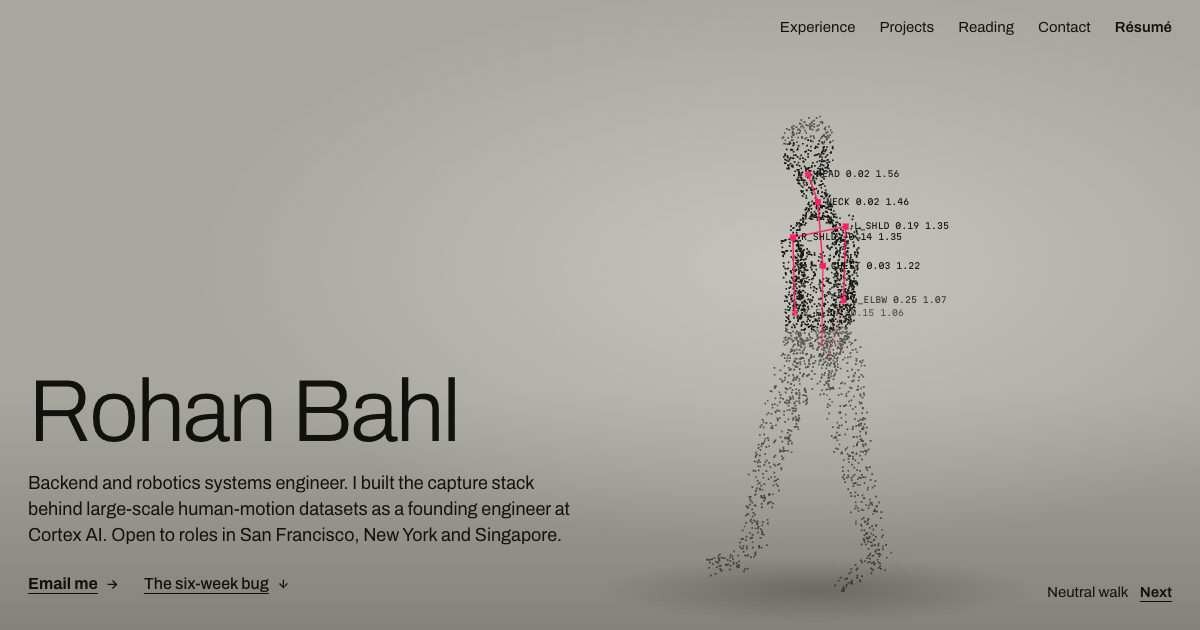
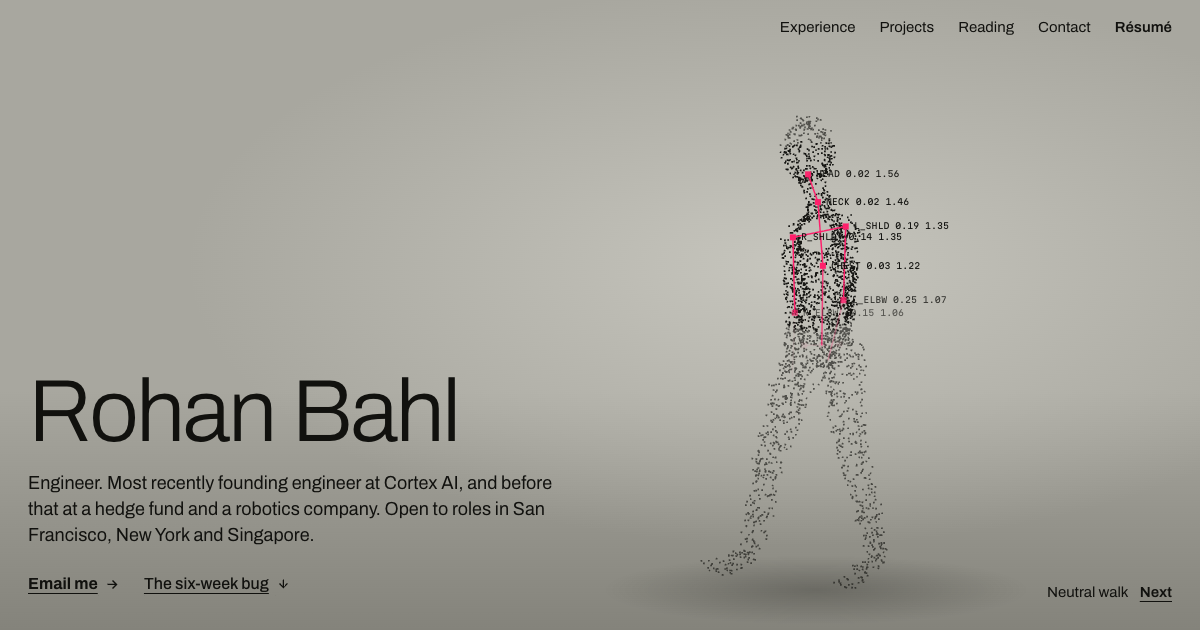
Present as Engineer rather than a specialist
Drops the backend and robotics labels from the hero, contact copy, page title,
search description, structured data and share card.

Changed region(s): [[0.5858, 0.181, 0.74, 0.9349], [0.0308, 0.754, 0.4933, 0.8746]]

diff --git a/index.html b/index.html
@@ -25,18 +25,18 @@
     <link rel="icon" type="image/png" href="%BASE_URL%site_icon.png" />
     <link rel="apple-touch-icon" href="%BASE_URL%site_icon.png" />
 
-    <title>Rohan Bahl — Backend & Robotics Systems Engineer</title>
+    <title>Rohan Bahl — Engineer</title>
     <meta
       name="description"
-      content="Rohan Bahl builds robotics capture systems, data platforms and operator tools. Formerly a founding engineer at Cortex AI. Open to roles in San Francisco, New York and Singapore."
+      content="Rohan Bahl is an engineer. Most recently a founding engineer at Cortex AI, and before that at a hedge fund and a robotics company. Open to roles in San Francisco, New York and Singapore."
     />
 
     <meta property="og:type" content="website" />
     <meta property="og:url" content="https://bnahor.github.io/" />
-    <meta property="og:title" content="Rohan Bahl — Backend & Robotics Systems Engineer" />
+    <meta property="og:title" content="Rohan Bahl — Engineer" />
     <meta
       property="og:description"
-      content="Robotics capture systems, data platforms and operator tools by Rohan Bahl."
+      content="Most recently a founding engineer at Cortex AI, and before that at a hedge fund and a robotics company. Open to roles in San Francisco, New York and Singapore."
     />
     <meta property="og:image" content="https://bnahor.github.io/og-card.png" />
     <meta property="og:image:width" content="1200" />
@@ -51,12 +51,12 @@
         "@context": "https://schema.org",
         "@type": "Person",
         "name": "Rohan Bahl",
-        "jobTitle": "Software Engineer",
+        "jobTitle": "Engineer",
         "alumniOf": {
           "@type": "Organization",
           "name": "Cortex AI"
         },
-        "description": "Engineer building dependable robotics capture systems, data platforms, and operator-facing tools.",
+        "description": "Engineer. Most recently a founding engineer at Cortex AI.",
         "url": "https://bnahor.github.io/",
         "email": "mailto:bnahor.dev@gmail.com",
         "sameAs": [
@@ -64,14 +64,6 @@
           "https://www.linkedin.com/in/rohan-bahl",
           "https://x.com/rb_9823",
           "https://www.instagram.com/ubcebicib"
-        ],
-        "knowsAbout": [
-          "Robotics",
-          "Data Capture",
-          "Distributed Systems",
-          "Reliability Engineering",
-          "Backend Engineering",
-          "Operator Tooling"
         ]
       }
     </script>
@@ -80,7 +72,7 @@
     <div id="root">
       <main class="boot-fallback">
         <h1>Rohan Bahl</h1>
-        <p>Backend and robotics systems engineer. Open to roles in San Francisco, New York and Singapore.</p>
+        <p>Engineer. Open to roles in San Francisco, New York and Singapore.</p>
         <a href="mailto:bnahor.dev@gmail.com">bnahor.dev@gmail.com</a>
       </main>
     </div>

diff --git a/src/data/profile.ts b/src/data/profile.ts
@@ -1,5 +1,5 @@
 /** Default document title; routed pages restore it when they unmount. */
-export const SITE_TITLE = 'Rohan Bahl — Backend & Robotics Systems Engineer';
+export const SITE_TITLE = 'Rohan Bahl — Engineer';
 
 const publicAsset = (fileName: string) => `${import.meta.env.BASE_URL}${fileName}`;
 
@@ -9,7 +9,7 @@ export const profile = {
   previously: 'Founding Engineer · Cortex AI',
   location: 'Singapore',
   logline:
-    'Backend and robotics systems engineer. I built the capture stack behind large-scale human-motion datasets as a founding engineer at Cortex AI. Open to roles in San Francisco, New York and Singapore.',
+    'Engineer. Most recently founding engineer at Cortex AI, and before that at a hedge fund and a robotics company. Open to roles in San Francisco, New York and Singapore.',
   email: 'bnahor.dev@gmail.com',
   links: {
     github: 'https://github.com/bnahor',

diff --git a/src/components/ContactTile.tsx b/src/components/ContactTile.tsx
@@ -19,8 +19,8 @@ export function ContactTile() {
     <section id="contact" className="fin" aria-labelledby="contact-heading">
       <h2 id="contact-heading" className="reel-title">Contact</h2>
       <p className="fin-copy">
-        I’m looking for my next role in backend, data platforms or robotics infrastructure, in San
-        Francisco, New York or Singapore. I’d consider elsewhere for the right company.
+        I’m a generalist looking for my next role, in San Francisco, New York or Singapore. I’d
+        consider elsewhere for the right company.
       </p>
       <a className="fin-address" href={`mailto:${profile.email}`}>
         {profile.email}

diff --git a/public/website/index.html b/public/website/index.html
@@ -12,7 +12,7 @@
 
     <!-- Social crawlers do not follow the refresh, so an old shared link still
          needs to resolve to a valid card. -->
-    <meta property="og:title" content="Rohan Bahl — Backend & Robotics Systems Engineer" />
+    <meta property="og:title" content="Rohan Bahl — Engineer" />
     <meta property="og:url" content="https://bnahor.github.io/" />
     <meta property="og:image" content="https://bnahor.github.io/og-card.png" />
     <meta name="twitter:card" content="summary_large_image" />
